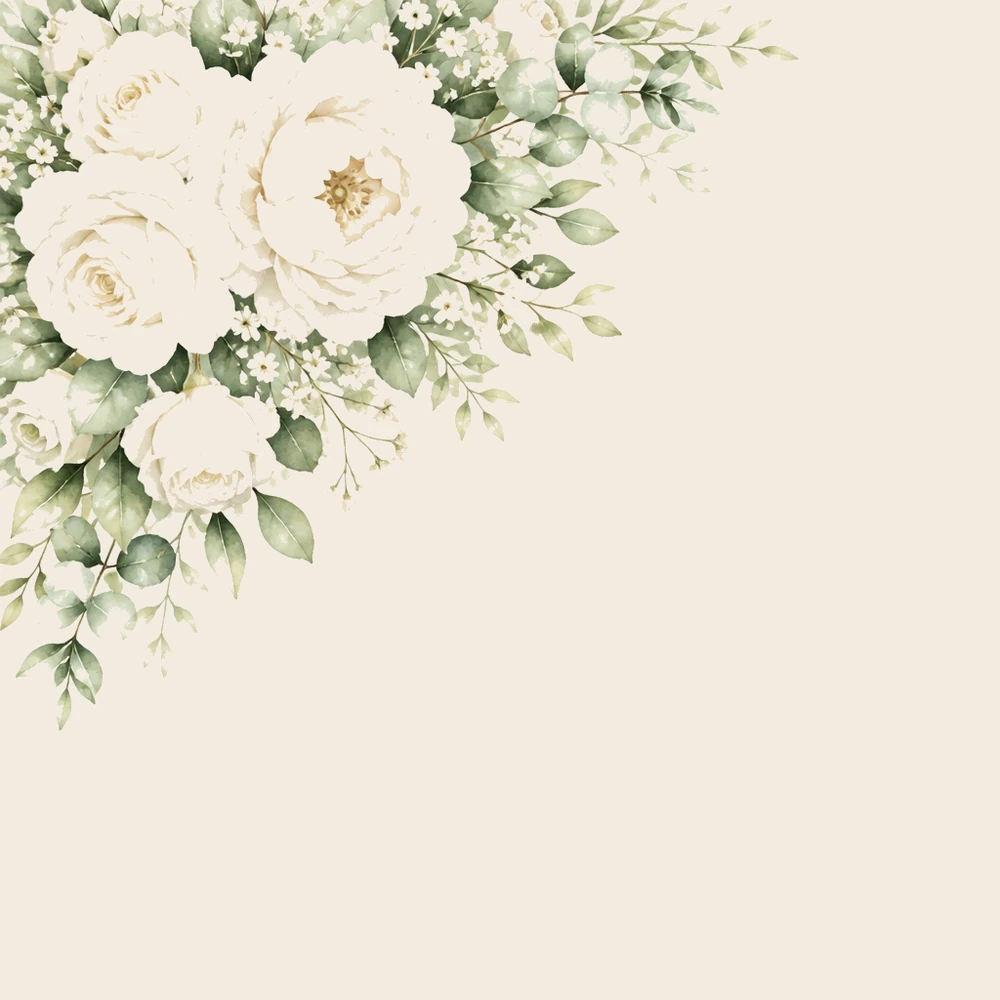
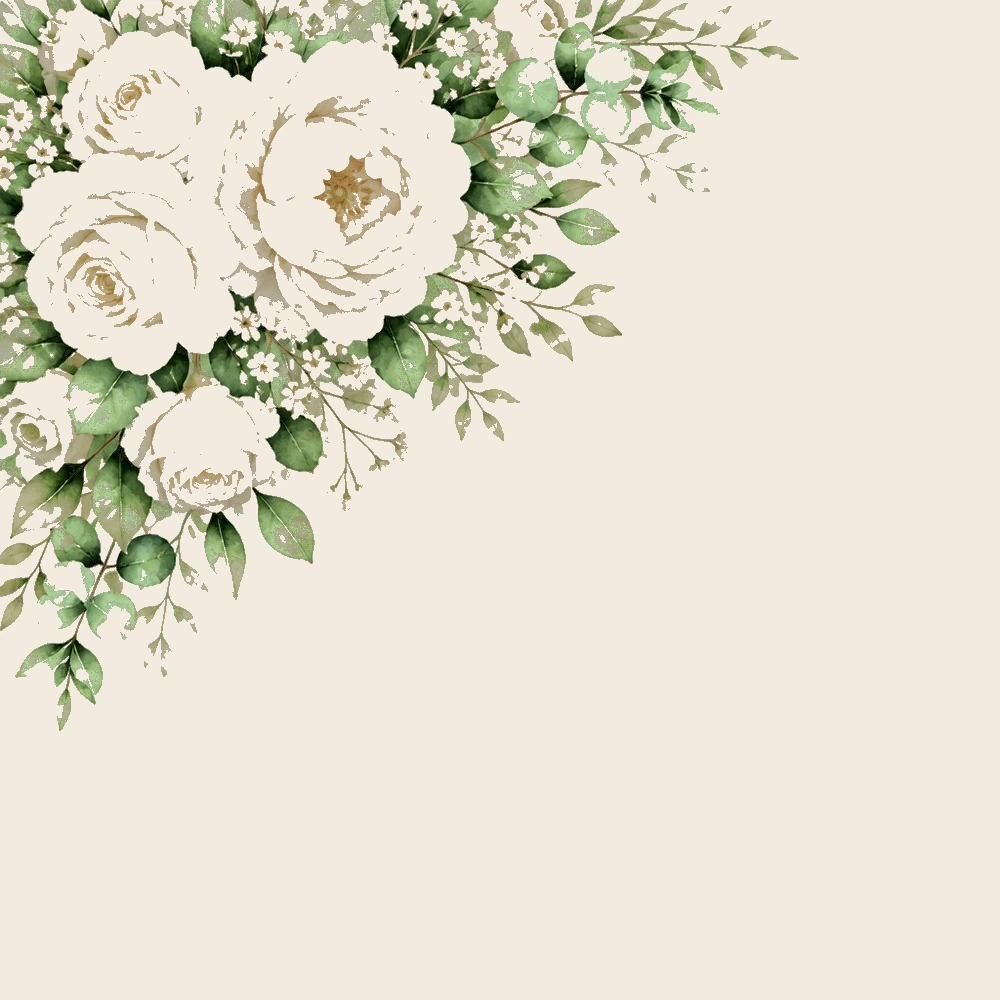
Riduci l’esposizione dei fiori e aumenta il contrasto delle foglie.

Changed region(s): [[0.0, 0.0, 0.806, 0.713], [0.279, 0.093, 0.372, 0.124], [0.155, 0.155, 0.186, 0.186]]

diff --git a/index.html b/index.html
@@ -31,7 +31,7 @@
   <noscript>
     <link href="https://fonts.googleapis.com/css2?family=Cormorant+Garamond:ital,wght@0,400;0,500;0,600;1,400;1,500&family=Italianno&family=Outfit:wght@300;400;500&display=swap" rel="stylesheet" />
   </noscript>
-  <link rel="stylesheet" href="styles.css?v=56" />
+  <link rel="stylesheet" href="styles.css?v=57" />
 </head>
 <body>
   <!-- Envelope overlay -->
@@ -83,7 +83,7 @@
             <span class="envelope-gate__face">
               <img
                 class="envelope-gate__florals envelope-gate__florals--tl"
-                src="images/gate-florals-tl.webp?v=52"
+                src="images/gate-florals-tl.webp?v=57"
                 alt=""
                 width="1000"
                 height="1000"
@@ -96,7 +96,7 @@
             <span class="envelope-gate__face">
               <img
                 class="envelope-gate__florals envelope-gate__florals--br"
-                src="images/gate-florals-br.webp?v=52"
+                src="images/gate-florals-br.webp?v=57"
                 alt=""
                 width="1000"
                 height="1000"
